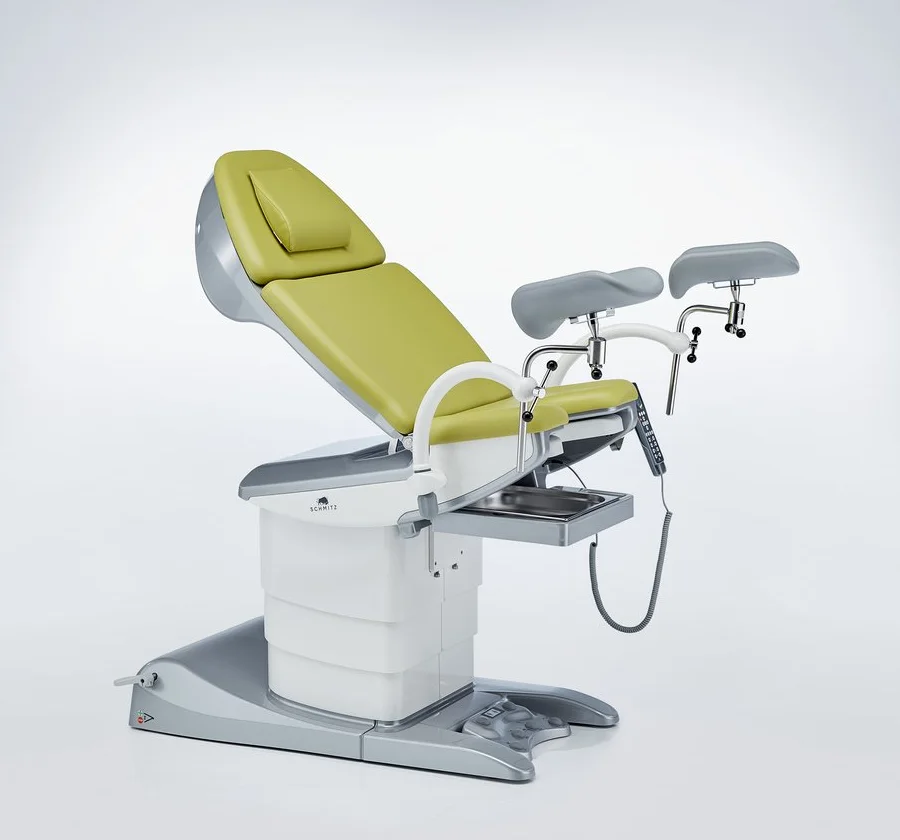
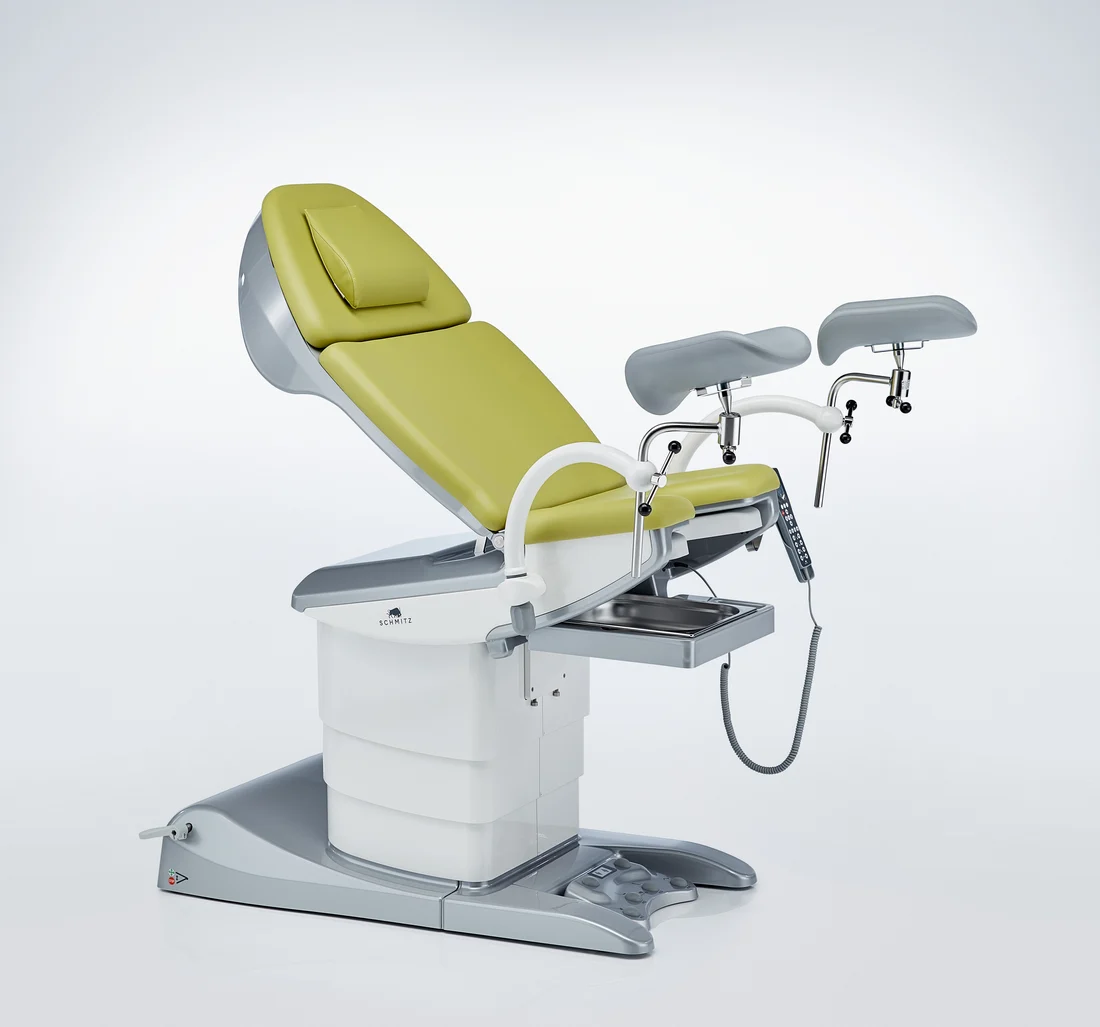
Ginecologia: imagem nítida da SCHMITZ no cartão Marquesas
O cartão passa a usar o medi-matic recortado do original de estúdio
SCHMITZ (8510 px), em vez da miniatura da maquete. A vista lateral da
ficha do medi-matic sai do mesmo original.

diff --git a/ginecologia.html b/ginecologia.html
@@ -1908,7 +1908,7 @@
 
           <div class="bx-cat-grid gy-cat-grid r20-reveal">
             <a class="bx-cat" href="#gyMarquesas">
-              <div class="bx-cat-img"><img src="images/products/gin-medi-matic-9000-pos1.webp" alt="" width="183" height="156" loading="lazy"></div>
+              <div class="bx-cat-img"><img src="images/products/gin-marquesas-cartao.webp" alt="" width="1200" height="750" loading="lazy"></div>
               <div class="bx-cat-body">
                 <span class="bx-cat-count">3 modelos</span>
                 <h3>Marquesas</h3>
@@ -2015,7 +2015,7 @@
           <div class="gy-prod-list">
             <article class="gy-prod r20-reveal" id="gyMediMatic">
               <div class="gy-prod-media">
-                <figure class="gy-photo gy-main"><img src="images/products/gin-medi-matic-9000.webp" alt="Marquesa ginecológica SCHMITZ medi-matic 9000" width="578" height="480" loading="lazy"><figcaption>Vista principal</figcaption></figure><div class="gy-gallery" style="--gy-n:5" role="group" aria-label="Mais imagens de medi-matic® 9000"><button type="button" class="gy-thumb" data-src="images/products/gin-medi-matic-9000.webp" data-w="578" data-h="480" data-cap="Vista principal" data-full="0" aria-pressed="true" aria-label="Ver imagem: Vista principal"><img src="images/products/gin-medi-matic-9000.webp" alt="" width="578" height="480" loading="lazy"></button><button type="button" class="gy-thumb gy-thumb-full" data-src="images/products/gin-medi-matic-estudio.webp" data-w="900" data-h="840" data-cap="Vista lateral" data-full="1" aria-pressed="false" aria-label="Ver imagem: Vista lateral"><img src="images/products/gin-medi-matic-estudio.webp" alt="" width="900" height="840" loading="lazy"></button><button type="button" class="gy-thumb gy-thumb-full" data-src="images/products/gin-medi-matic-acesso.webp" data-w="1100" data-h="733" data-cap="Acesso a partir da cadeira de rodas" data-full="1" aria-pressed="false" aria-label="Ver imagem: Acesso a partir da cadeira de rodas"><img src="images/products/gin-medi-matic-acesso.webp" alt="" width="1100" height="733" loading="lazy"></button><button type="button" class="gy-thumb gy-thumb-full" data-src="images/products/gin-medi-matic-comando.webp" data-w="1100" data-h="795" data-cap="Comando manual" data-full="1" aria-pressed="false" aria-label="Ver imagem: Comando manual"><img src="images/products/gin-medi-matic-comando.webp" alt="" width="1100" height="795" loading="lazy"></button><button type="button" class="gy-thumb gy-thumb-full" data-src="images/products/gin-medi-matic-luz.webp" data-w="1100" data-h="734" data-cap="Iluminação da base" data-full="1" aria-pressed="false" aria-label="Ver imagem: Iluminação da base"><img src="images/products/gin-medi-matic-luz.webp" alt="" width="1100" height="734" loading="lazy"></button></div><p class="gy-thumbs-label">Posições e configurações</p><div class="gy-thumbs"><figure class="gy-photo"><img src="images/products/gin-medi-matic-9000-pos1.webp" alt="" width="183" height="156" loading="lazy"></figure><figure class="gy-photo"><img src="images/products/gin-medi-matic-9000-pos2.webp" alt="" width="183" height="145" loading="lazy"></figure><figure class="gy-photo"><img src="images/products/gin-medi-matic-9000-pos3.webp" alt="" width="214" height="122" loading="lazy"></figure></div>
+                <figure class="gy-photo gy-main"><img src="images/products/gin-medi-matic-9000.webp" alt="Marquesa ginecológica SCHMITZ medi-matic 9000" width="578" height="480" loading="lazy"><figcaption>Vista principal</figcaption></figure><div class="gy-gallery" style="--gy-n:5" role="group" aria-label="Mais imagens de medi-matic® 9000"><button type="button" class="gy-thumb" data-src="images/products/gin-medi-matic-9000.webp" data-w="578" data-h="480" data-cap="Vista principal" data-full="0" aria-pressed="true" aria-label="Ver imagem: Vista principal"><img src="images/products/gin-medi-matic-9000.webp" alt="" width="578" height="480" loading="lazy"></button><button type="button" class="gy-thumb gy-thumb-full" data-src="images/products/gin-medi-matic-estudio.webp" data-w="1100" data-h="1027" data-cap="Vista lateral" data-full="1" aria-pressed="false" aria-label="Ver imagem: Vista lateral"><img src="images/products/gin-medi-matic-estudio.webp" alt="" width="1100" height="1027" loading="lazy"></button><button type="button" class="gy-thumb gy-thumb-full" data-src="images/products/gin-medi-matic-acesso.webp" data-w="1100" data-h="733" data-cap="Acesso a partir da cadeira de rodas" data-full="1" aria-pressed="false" aria-label="Ver imagem: Acesso a partir da cadeira de rodas"><img src="images/products/gin-medi-matic-acesso.webp" alt="" width="1100" height="733" loading="lazy"></button><button type="button" class="gy-thumb gy-thumb-full" data-src="images/products/gin-medi-matic-comando.webp" data-w="1100" data-h="795" data-cap="Comando manual" data-full="1" aria-pressed="false" aria-label="Ver imagem: Comando manual"><img src="images/products/gin-medi-matic-comando.webp" alt="" width="1100" height="795" loading="lazy"></button><button type="button" class="gy-thumb gy-thumb-full" data-src="images/products/gin-medi-matic-luz.webp" data-w="1100" data-h="734" data-cap="Iluminação da base" data-full="1" aria-pressed="false" aria-label="Ver imagem: Iluminação da base"><img src="images/products/gin-medi-matic-luz.webp" alt="" width="1100" height="734" loading="lazy"></button></div><p class="gy-thumbs-label">Posições e configurações</p><div class="gy-thumbs"><figure class="gy-photo"><img src="images/products/gin-medi-matic-9000-pos1.webp" alt="" width="183" height="156" loading="lazy"></figure><figure class="gy-photo"><img src="images/products/gin-medi-matic-9000-pos2.webp" alt="" width="183" height="145" loading="lazy"></figure><figure class="gy-photo"><img src="images/products/gin-medi-matic-9000-pos3.webp" alt="" width="214" height="122" loading="lazy"></figure></div>
               </div>
               <div class="gy-prod-info">
                 <span class="gy-prod-brand">SCHMITZ</span>
@@ -3030,7 +3030,7 @@
      colposcopia, com a versão móvel; candeeiro ACEMST1 antes do Carla Focus; Carla Focus sem a marquesa; imagem
      dos instrumentos HEBU sem os ganchos; sem "CO2" nos títulos). ACEMST1: brochura oficial ACEM
      (acem.it, 2026_Brochure-ACEMST1-EN). vidan®2 móvel: schmitz-medical.com/en/products/vidan2/.
-     Imagens dos fabricantes (2026-11-25): SCHMITZ (schmitz-medical.com, medi-matic, arco-matic, vidan2; vidan2 mobile: fotos SCHMITZ no MedicalExpo); RQL
+     Imagens dos fabricantes (2026-11-25): SCHMITZ (schmitz-medical.com, medi-matic incl. original 45638 no cartão Marquesas, arco-matic, vidan2; vidan2 mobile: fotos SCHMITZ no MedicalExpo); RQL
      (golemtable.com, Golem 6ET treatment); ALLTION (folheto AC-5000_4K_Leaflet.pdf); UTAH (utahmed.com, finesse-plus-big);
      LED SpA (led.it, surtrontouch200_*); MedGyn (medgyn.com, MGC-200); ACEM (brochura ACEMST1); TBH (tbh.eu, Health Pro e
      Health Pro Silence); GynReport (frames do vídeo Speculum no YouTube); Labomed e INTERmedic: fotos publicadas pelos fabricantes no MedicalExpo. -->
